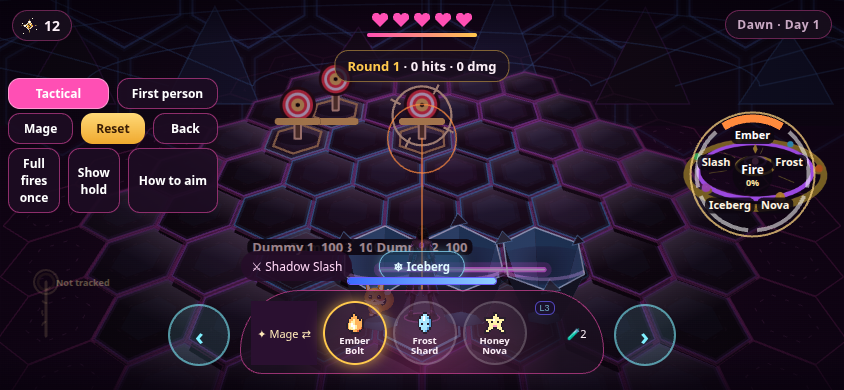
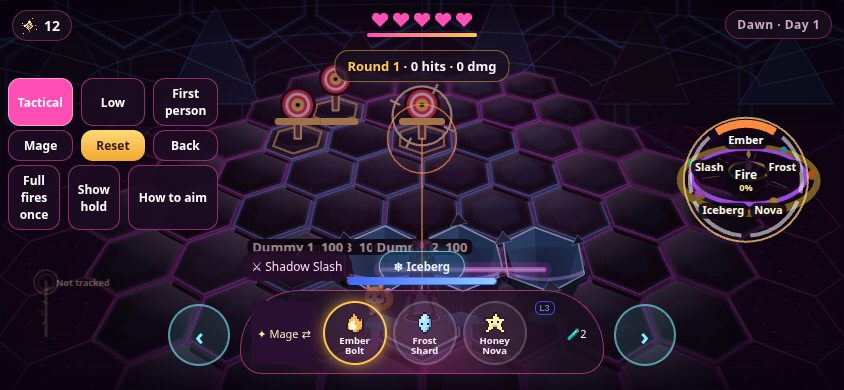
Add an optional Low arena view beside the default tactical camera
Low uses the same projection as tactical, with a steeper floor, thicker plate edges, dimmer seams, and a light mist that does not wet the hexes. Tactical stays the default. The regression file checks that a Low aim still hits and that the dummies stay on screen at three sizes.

diff --git a/v7/index.html b/v7/index.html
@@ -300,6 +300,7 @@ background:radial-gradient(ellipse at 50% 30%,rgba(255,79,180,.22),rgba(26,15,31
   <div class="note" id="trainNote">Practice views · not tracked AR · code-drawn disc, not a live mesh</div>
   <div class="rowb" id="trainViews">
     <button type="button" id="viewTac" class="on">Tactical</button>
+    <button type="button" id="viewLow">Low</button>
     <button type="button" id="viewFp">First person</button>
   </div>
   <div class="rowb">
@@ -1945,7 +1946,7 @@ function renderArenaFloor() {
     }
     else { const isPoi = d <= 1, wtr = r < -1 || (d > 2); col = wtr ? '#163e6e' : isPoi ? mixHex('#2a3a48', '#d99a2a', AR.share * (d === 0 ? 1 : .8)) : '#24563c'; lift = wtr ? 0 : 5; }
     const [, , f] = proj(c, x, y);
-    const skirt = lift * (AR.kind === 'raid' ? clamp(f / .85, .7, 1.6) : 1);
+    const skirt = lift * (AR.kind === 'raid' ? clamp(f / .85, .7, 1.6) * (TRAIN.on && TRAIN.view === 'low' ? 2.3 : 1) : 1);
     if (skirt) { g.save(); g.translate(0, skirt * f); hexPath(c, x, y, .94, g); g.restore(); g.fillStyle = shade(col, -.55); g.fill(); }
     hexPath(c, x, y, .94, g);
     if (AR.kind === 'raid') {
@@ -1960,7 +1961,8 @@ function renderArenaFloor() {
     } else { g.fillStyle = col; g.fill(); }
     const station = TRAIN.on && !TRAIN.king && AR.kind === 'raid' && ((q === -1 && r === -2) || (q === 1 && r === -2) || (q === 0 && r === -3));
     const seam = AR.kind === 'hack' ? (d <= 1 && AR.share > .5 ? '255,201,77' : '255,79,180') : (station ? '140,220,255' : d <= 2 ? '80,200,255' : '176,96,220');
-    g.strokeStyle = `rgba(${seam},.16)`; g.lineWidth = 6; g.stroke(); g.strokeStyle = `rgba(${seam},${d > 3 ? .45 : .8})`; g.lineWidth = 1.5; g.stroke();
+    const lowSeam = TRAIN.on && TRAIN.view === 'low';
+    g.strokeStyle = `rgba(${seam},${lowSeam ? .08 : .16})`; g.lineWidth = lowSeam ? 3 : 6; g.stroke(); g.strokeStyle = `rgba(${seam},${d > 3 ? .35 : (lowSeam ? .55 : .8)})`; g.lineWidth = 1.5; g.stroke();
     if (station) { hexPath(c, x, y, .7, g); g.strokeStyle = 'rgba(255,214,120,.95)'; g.lineWidth = 2.2; g.stroke(); }
   }
   AR.floorDirty = false;
@@ -1977,11 +1979,24 @@ function drawRaidShimmer(c, T) {
   }
   ctx.restore();
 }
+function drawLowAir(T) {
+  if (!(TRAIN.on && TRAIN.view === 'low') || SET.cozy) return;
+  const hy = proj(AR.cam, 0, -7)[1];
+  ctx.save();
+  ctx.fillStyle = 'rgba(6,8,18,.28)';
+  ctx.fillRect(0, 0, W, Math.max(0, hy + 8));
+  for (let i = 0; i < 16; i++) {
+    const x = (hsh(i, 4) * W + T * 14) % W, y = hsh(i, 8) * Math.max(24, hy);
+    ctx.strokeStyle = 'rgba(190,205,230,.12)'; ctx.lineWidth = 1;
+    ctx.beginPath(); ctx.moveTo(x, y); ctx.lineTo(x + 1, y + 9); ctx.stroke();
+  }
+  ctx.restore();
+}
 function drawArena(T) {
   const c = AR.cam;
   if (AR.floorDirty) renderArenaFloor();
   const sh = AR.shake > 0 ? AR.shake * 6 : 0; ctx.save(); if (sh) ctx.translate((Math.random() - .5) * sh, (Math.random() - .5) * sh);
-  drawWireUnder(c, AHEX, T, 'arena'); ctx.globalAlpha = surfaceAlpha(); ctx.drawImage(acv, 0, 0, W, H); ctx.globalAlpha = 1; drawWireOver(c, AHEX.filter(h => h.d <= 4), T, 'arena'); drawRaidShimmer(c, T);
+  drawWireUnder(c, AHEX, T, 'arena'); ctx.globalAlpha = surfaceAlpha(); ctx.drawImage(acv, 0, 0, W, H); ctx.globalAlpha = 1; drawLowAir(T); drawWireOver(c, AHEX.filter(h => h.d <= 4), T, 'arena'); drawRaidShimmer(c, T);
   if (TRAIN.on && TRAIN.pulses) for (const p of TRAIN.pulses) {
     const k = clamp(1 - p.t / 0.42, 0, 1), [x, y] = hexXY(p.q, p.r);
     hexPath(c, x, y, 0.82); ctx.globalAlpha = 0.28 * k; ctx.fillStyle = p.col; ctx.fill();
@@ -3968,13 +3983,21 @@ function unprojFp(X, Y) {
   const fpx = 320 / Math.max(0.55, dist);
   return [ex + (X - W / 2) / fpx / 0.72, ey - dist];
 }
+function applyLowCam() {
+  const c = AR.cam;
+  const hz0 = clamp(Math.min(W / 5.6, H / 10.5), 44, 96);
+  c.x = 0; c.y = 0.35; c.hz = hz0 * 0.72; c.D = H * 1.05; c.cy = H * 0.5; c.A = 1;
+  AR.floorDirty = true;
+}
 function syncViewBtns() {
-  const fp = TRAIN.view === 'fp';
-  const tac = document.getElementById('viewTac'), bfp = document.getElementById('viewFp');
-  if (tac) tac.classList.toggle('on', !fp);
-  if (bfp) bfp.classList.toggle('on', fp);
+  const v = TRAIN.view;
+  const tac = document.getElementById('viewTac'), low = document.getElementById('viewLow'), bfp = document.getElementById('viewFp');
+  if (tac) tac.classList.toggle('on', v !== 'fp' && v !== 'low');
+  if (low) low.classList.toggle('on', v === 'low');
+  if (bfp) bfp.classList.toggle('on', v === 'fp');
   const note = document.getElementById('trainNote');
-  if (note) note.textContent = (fp ? 'First person' : 'Tactical') + ' · practice view, not tracked AR · ' + discSkinLabel();
+  const name = v === 'fp' ? 'First person' : v === 'low' ? 'Low angle' : 'Tactical';
+  if (note) note.textContent = name + ' · practice view, not tracked AR · ' + discSkinLabel();
 }
 function interruptCharge(msg) {
   const held = !!(TRAIN.cap || AR.ptr);
@@ -3988,10 +4011,10 @@ function interruptCharge(msg) {
 }
 function setTrainView(v) {
   interruptCharge('Charge cancelled');
-  const next = v === 'fp' ? 'fp' : 'tactical';
+  const next = v === 'fp' ? 'fp' : v === 'low' ? 'low' : 'tactical';
   TRAIN.view = next;
-  if (next === 'tactical') layoutArenaCam();
-  else applyFpCam();
+  if (next === 'fp') applyFpCam();
+  else layoutArenaCam();
   syncViewBtns();
   return next;
 }
@@ -4707,7 +4730,7 @@ function drillLine() {
   proj = function (c, wx, wy) { return (TRAIN.on && TRAIN.view === 'fp' && G.scene === 'arena') ? projFp(wx, wy) : _proj(c, wx, wy); };
   unproj = function (c, X, Y) { return (TRAIN.on && TRAIN.view === 'fp' && G.scene === 'arena') ? unprojFp(X, Y) : _unproj(c, X, Y); };
 }
-{ const _layoutArenaCam = layoutArenaCam; layoutArenaCam = function () { if (TRAIN.on && TRAIN.view === 'fp') { applyFpCam(); return; } _layoutArenaCam(); AR.cam.x = 0; if (TRAIN.king) { AR.cam.cy = H * 0.60; AR.cam.y = 0.15; AR.floorDirty = true; } else if (TRAIN.on) { AR.cam.cy = H * 0.58; AR.floorDirty = true; } }; }
+{ const _layoutArenaCam = layoutArenaCam; layoutArenaCam = function () { if (TRAIN.on && TRAIN.view === 'fp') { applyFpCam(); return; } _layoutArenaCam(); AR.cam.x = 0; if (TRAIN.on && TRAIN.view === 'low') { applyLowCam(); return; } if (TRAIN.king) { AR.cam.cy = H * 0.60; AR.cam.y = 0.15; AR.floorDirty = true; } else if (TRAIN.on) { AR.cam.cy = H * 0.58; AR.floorDirty = true; } }; }
 function drawFpFrame() {
   if (!(TRAIN.on && TRAIN.view === 'fp' && G.scene === 'arena')) return;
   ctx.save();
@@ -4793,6 +4816,7 @@ document.getElementById('trainReset').addEventListener('click', e => { e.stopPro
 document.getElementById('trainBack').addEventListener('click', e => { e.stopPropagation(); if (TRAIN.king) { TRAIN.king = false; startTrain(); return; } leaveTrain(); });
 document.getElementById('trainClass').addEventListener('click', e => { e.stopPropagation(); setClass(GUN.cls === 'gunner' ? 'mage' : 'gunner'); });
 document.getElementById('viewTac').addEventListener('click', e => { e.stopPropagation(); setTrainView('tactical'); });
+document.getElementById('viewLow').addEventListener('click', e => { e.stopPropagation(); setTrainView('low'); });
 document.getElementById('viewFp').addEventListener('click', e => { e.stopPropagation(); setTrainView('fp'); });
 document.getElementById('trainAuto').addEventListener('click', e => {
   e.stopPropagation();

diff --git a/v7/HANDOFF.md b/v7/HANDOFF.md
@@ -7,6 +7,7 @@ Live `/v7/` on main is unchanged. Nothing here was merged or deployed.
 ## What you can do
 
 - Mage: press the center, drag to aim, hold. **Full fires once** casts at full charge and the lift does not cast again. An early release is one weaker cast. Switching view, class, Reset, or Back drops the charge and does not cast. The forearm mark says **Not tracked**.
+- Views: **Tactical** is the default. **Low** is an optional closer-to-the-floor arena camera (same aim math). **First person** is unchanged. Details are below.
 - Gunner: holding does not fire. The shot happens on release.
 - Slash cuts the hexes you aimed. The first step into a trench says to tap again, including when the fight clock is still 0. The next step enters. Ember on that trench is a lava seam and burns while you stand in it. Reset and the 14 second life both clear it. A mob that walks into the cut is stopped by the same obstacle check the arena uses.
 - Iceberg raises your wall at 90 HP. Ember aimed at that wall, on the glowing center, hits for 40 (weak point, 2×). Three of those remove it: cracked hexes and ice chunks. Frost and a shot at empty ground do not damage it. A lift after the cast does not hit again.
@@ -44,11 +45,19 @@ An earlier phone frame of a pit (`hole_trench_phone`) looked empty of people. Me
 - The cast line sat on the player on a tall phone. It now sits at the left, under the buttons, and in the corner on short screens.
 - The page already sets `overflow: hidden` and `touch-action: none` on the canvas, so the field does not scroll.
 
-## Depth, and what a lower angle would take
+## Low angle (optional)
 
-The picture is one canvas projection. `proj` / `unproj` use `cam.A` of 0.8. World Y is the depth axis, and at this angle a thin cut along that axis becomes a short screen band. That is why a slash ribbon looked like two bars. The current pits avoid that by dropping each hex downward on the screen by about the hex’s own screen height, with side walls and a cyan floor. That is as deep as this angle can show without covering the next tile.
+In the yard and the Gel King bout, the view row is **Tactical**, **Low**, **First person**. Tactical is still the default and still uses camera angle 0.8. **Low** is a second arena camera on the same `proj` / `unproj`: angle 1.0, the floor pulled a little closer to the horizon, plate edges drawn thicker, seam glow turned down, and a dim band plus a few drifting streaks at the back. Those streaks are drawn only. They are not rain gameplay and they do not wet the hexes.
 
-A closer match to the low, tilted concept view is a smaller `cam.A` (and a pass over `cy`) so a multi-hex canyon has tall inner walls in screen space. `unproj` is the inverse of that same angle, and every drag-to-aim, shot, and tap uses it. Changing `A` moves the world point under a finger. It is the same 2D math, not a camera plane and not WebXR. It is not a safe one-line change: aim, the disc, trench steps, and the three viewports above would have to be rechecked, and the floor skirts and pit drop would need to be retuned or they will intersect the buttons. That work is not done.
+Switching Low cancels a charge in progress, the same way First person does. Reset keeps the view you picked. Back, and a new yard or king entrance, return to Tactical. The map raid does not grow a new button; it stays on the default camera. Map navigation is unchanged.
+
+`v7/regress.mjs` checks that a point aimed in Low unprojects back to itself, that Ember still hits the dummy under the ring, that the dummies stay off the buttons and the disc at 320×568, 390×844, and landscape, and that Tactical’s angle returns to 0.8.
+
+What Low does not do: it is not the low heroic painting. The pits are still one hex, the back rocks are still small, and there is no wide canyon. Pushing the angle further made the side dummies leave the screen in the trials above, so this is the setting that stayed playable.
+
+![Tactical](handoff/tac_before.png)
+
+![Low](handoff/low_after.png)
 
 ## Not in this build
 
